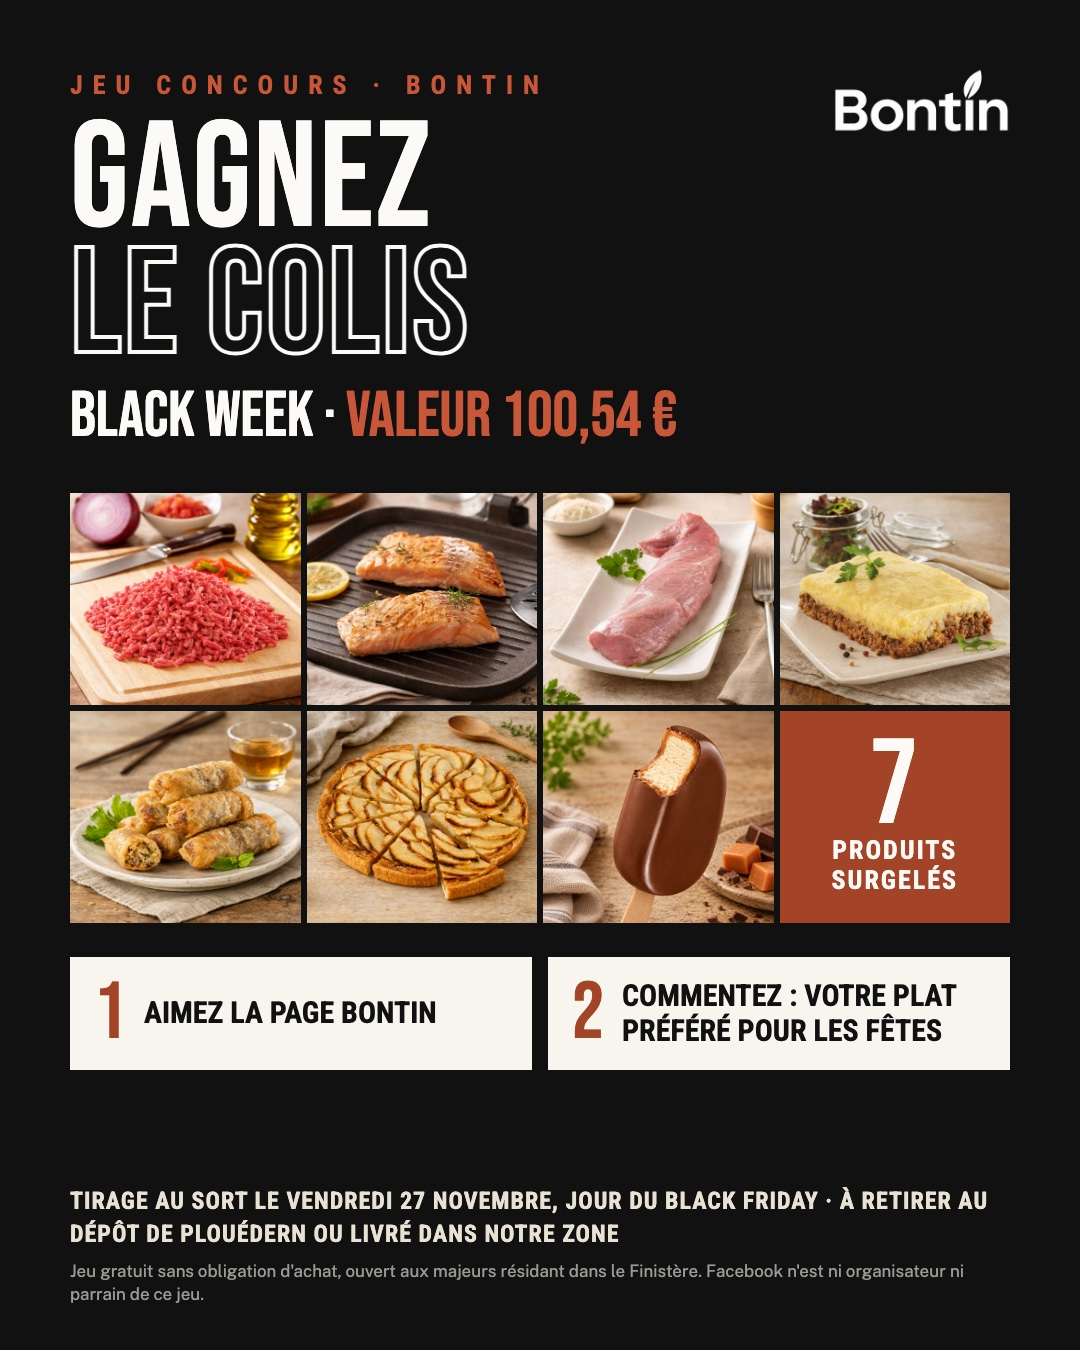
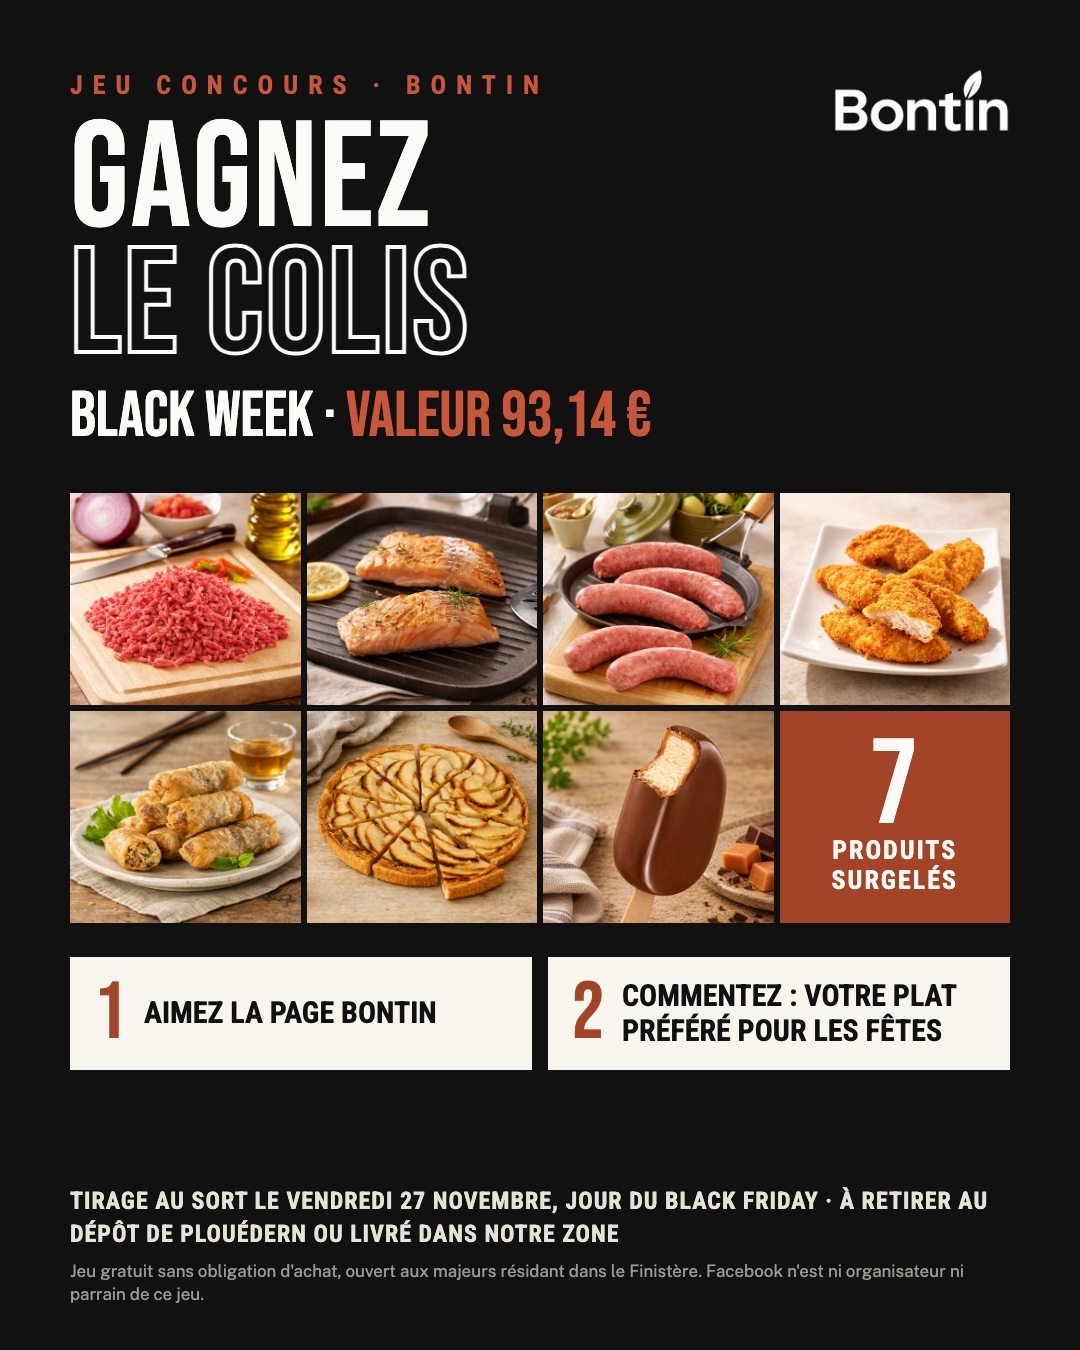
colis

Changed region(s): [[0.4583, 0.28, 0.9472, 0.5289]]

diff --git a/docs/black-week/kit-facebook.html b/docs/black-week/kit-facebook.html
@@ -66,11 +66,11 @@ code{background:#fff;border:1px solid var(--ligne);padding:1px 5px;font-size:14p
   <div><b>20 → 26 nov.</b>Jeu concours sur Facebook, tirage le vendredi 27 (Black Friday)</div>
   <div><b>23 → 29 nov.</b>Black Week sur bontin.fr</div>
   <div><b>-25 % max.</b>Sur 7 produits, dont le prix choc : 6 coquilles Saint-Jacques à 18,99 €</div>
-  <div><b>69,90 €</b>Le colis Black Week (valeur 100,54 €, -30 %)</div>
+  <div><b>65,20 €</b>Le colis Black Week (valeur 93,14 €, -30 %)</div>
 </div>
 <div class="carte">
   <p style="margin:0"><b>Le message à répéter partout, toujours le même :</b><br>
-  « Black Week Bontin : jusqu'à -25 % sur une sélection de surgelés et le colis de 7 produits à 69,90 € au lieu de 100,54 € (-30 %). Du 23 au 29 novembre sur bontin.fr, en livraison ou en retrait à Plouédern. »</p>
+  « Black Week Bontin : jusqu'à -25 % sur une sélection de surgelés et le colis de 7 produits à 65,20 € au lieu de 93,14 € (-30 %). Du 23 au 29 novembre sur bontin.fr, en livraison ou en retrait à Plouédern. »</p>
 </div>
 
 <h2>1. Les produits choisis</h2>
@@ -88,18 +88,18 @@ code{background:#fff;border:1px solid var(--ligne);padding:1px 5px;font-size:14p
 </table>
 <p style="font-size:14px;color:var(--muted)">Les promos de novembre déjà en place (éclairs, chipolatas, corbeilles, galettes, dos de cabillaud, kebab, poulet noir) continuent jusqu'au 30/11 : elles apparaîtront aussi sur la page Promotions pendant la Black Week. Rien à changer.</p>
 
-<h3>Le colis Black Week : 100,54 € de produits pour 69,90 € (-30 %)</h3>
+<h3>Le colis Black Week : 93,14 € de produits pour 65,20 € (-30 %)</h3>
 <p>Un colis « semaine en famille », avec d'autres produits que le ticket pour que les deux offres se complètent. C'est aussi le lot du jeu concours.</p>
 <table>
   <tr><th>Contenu</th><th class="n">Prix normal (livraison)</th></tr>
   <tr><td>HACHE TRADITION EN GRAIN (1 kg)</td><td class="n">20,49 €</td></tr>
   <tr><td>PAVE DE SAUMON SANS PEAU (1 kg)</td><td class="n">26,90 €</td></tr>
-  <tr><td>FILET MIGNON (1 kg)</td><td class="n">14,59 €</td></tr>
-  <tr><td>HACHIS PARMENTIER BOEUF (2 × 500 g)</td><td class="n">16,09 €</td></tr>
+  <tr><td>SAUCISSES FUMES ARTSANALES (1 kg)</td><td class="n">10,79 €</td></tr>
+  <tr><td>AIGUILLETTES DE POULET PANE (1 kg)</td><td class="n">12,49 €</td></tr>
   <tr><td>28 NEMS AU POULET</td><td class="n">10,59 €</td></tr>
   <tr><td>TARTE AUX POMMES 8 PARTS PREDECOUPEES</td><td class="n">7,89 €</td></tr>
   <tr><td>4 BÂTONNETS DOUBLE CARAMEL</td><td class="n">3,99 €</td></tr>
-  <tr class="star"><td><b>Total</b></td><td class="n"><b>100,54 €</b> → <b>69,90 €</b></td></tr>
+  <tr class="star"><td><b>Total</b></td><td class="n"><b>93,14 €</b> → <b>65,20 €</b></td></tr>
 </table>
 
 <h2>2. Mise en place sur le site (avant le lundi 23)</h2>
@@ -115,18 +115,18 @@ code{background:#fff;border:1px solid var(--ligne);padding:1px 5px;font-size:14p
 <p>Le colis se vend comme n'importe quel produit : c'est un produit du catalogue dont le prix est celui du colis complet.</p>
 <ol>
   <li>Admin → onglet Produits → <b>« + Nouveau produit »</b>.</li>
-  <li>Désignation <code>COLIS BLACK WEEK (7 PRODUITS)</code>, catégorie Plats cuisinés, poids <code>7 produits</code>, prix livraison <code>100.54</code> → Créer. Un nouveau produit est toujours créé <b>masqué</b>.</li>
+  <li>Désignation <code>COLIS BLACK WEEK (7 PRODUITS)</code>, catégorie Plats cuisinés, poids <code>7 produits</code>, prix livraison <code>93.14</code> → Créer. Un nouveau produit est toujours créé <b>masqué</b>.</li>
   <li>Sur sa ligne : la photo <code>visuels/9-photo-colis-site.jpg</code> (déjà au format carré du site).</li>
-  <li>Bouton <b>Promo</b> de la ligne : prix <code>69.90</code>, du 23/11/2026 au 29/11/2026.</li>
+  <li>Bouton <b>Promo</b> de la ligne : prix <code>65.20</code>, du 23/11/2026 au 29/11/2026.</li>
   <li>Bouton <b>Fiche</b> : coller la description ci-dessous, enregistrer. Vérifier qu'il est disponible en livraison et en retrait.</li>
   <li><b>Lundi 23 à 8 h</b> : passer la ligne de « Masqué » à « Publié ». C'est la seule chose à faire à la main ce jour-là côté site.</li>
 </ol>
 <p>Pendant la semaine, le client l'ajoute au panier comme un autre produit. La commande arrive dans Admin → Commandes avec la ligne « COLIS BLACK WEEK (7 PRODUITS) » : on prépare les 7 produits dans un même sac. Plus de stock : cocher « rupture », il disparaît du ticket. Lundi 30 : le repasser en « Masqué ».</p>
-<div class="texte">Le colis de la Black Week : 7 produits surgelés pour toute la famille, 100,54 € de produits pour 69,90 €.
+<div class="texte">Le colis de la Black Week : 7 produits surgelés pour toute la famille, 93,14 € de produits pour 65,20 €.
 • Haché tradition en grain (1 kg)
 • Pavés de saumon sans peau (1 kg)
-• Filet mignon de porc (1 kg)
-• Hachis parmentier bœuf (2 × 500 g)
+• Saucisses fumées artisanales (1 kg)
+• Aiguillettes de poulet panées (1 kg)
 • 28 nems au poulet
 • Tarte aux pommes 8 parts
 • 4 bâtonnets glacés double caramel
@@ -141,7 +141,7 @@ Offre valable du 23 au 29 novembre 2026, dans la limite des stocks.</div>
 </ol>
 <h3>d) À décider</h3>
 <ul>
-  <li><b>Le code BIENVENUE10 (-10 %)</b> se cumule avec les prix Black Week. Le colis tomberait à 62,91 €. Si c'est trop juste pour vos marges, désactivez-le pendant la semaine (onglet Offres).</li>
+  <li><b>Le code BIENVENUE10 (-10 %)</b> se cumule avec les prix Black Week. Le colis tomberait à 58,68 €. Si c'est trop juste pour vos marges, désactivez-le pendant la semaine (onglet Offres).</li>
   <li><b>Les stocks</b> : faites le point avec Sylvie sur les quantités des 8 produits, surtout les Saint-Jacques. Si un produit est épuisé, cochez « rupture » : il disparaît tout seul du ticket.</li>
 </ul>
 
@@ -156,15 +156,15 @@ Offre valable du 23 au 29 novembre 2026, dans la limite des stocks.</div>
 7 jours de Black Week chez Bontin : des surgelés que vous connaissez bien à prix cassés, et un colis surprise à -30 %… On ne vous dit pas encore lesquels 🤫
 
 👉 Abonnez-vous à la page pour ne rien rater.
-🎁 Et dès demain midi : un jeu concours pour gagner notre colis Black Week de 100,54 € 👀</div>
+🎁 Et dès demain midi : un jeu concours pour gagner notre colis Black Week de 93,14 € 👀</div>
 </div></div>
 
 <div class="jour"><div class="d"><small>Vendredi</small><b>20</b><small>nov.</small></div><div class="c">
   <div class="titre">Lancement du jeu concours</div><div class="meta">12 h · visuel 1-concours · + 3 € par jour de publicité jusqu'au 26</div>
   <div class="vis"><a href="visuels/1-concours.jpg"><img src="visuels/1-concours.jpg" alt="">1-concours</a></div>
-  <div class="texte">🎁 JEU CONCOURS : gagnez le colis Black Week Bontin (valeur 100,54 €) !
+  <div class="texte">🎁 JEU CONCOURS : gagnez le colis Black Week Bontin (valeur 93,14 €) !
 
-Haché de bœuf, pavés de saumon, filet mignon, hachis parmentier, nems, tarte aux pommes et bâtonnets glacés : de quoi régaler toute la famille 😋
+Haché de bœuf, pavés de saumon, saucisses fumées, aiguillettes de poulet panées, nems, tarte aux pommes et bâtonnets glacés : de quoi régaler toute la famille 😋
 
 Pour tenter votre chance :
 1⃣ Aimez notre page Bontin
@@ -176,7 +176,7 @@ Tirage au sort le vendredi 27 novembre à 12 h, jour du Black Friday ! Colis à 
 
 Jeu gratuit sans obligation d'achat, réservé aux majeurs résidant dans le Finistère. Règlement en commentaire. Facebook n'est ni organisateur ni parrain de ce jeu.</div>
   <p style="margin:8px 0 2px;font-size:14px"><b>Juste après, en 1er commentaire sous la publication (le règlement) :</b></p>
-  <div class="texte">📋 Règlement : jeu gratuit sans obligation d'achat organisé par ELORN GEL (Bontin) du 20/11/2026 au 26/11/2026 à 23 h 59. Ouvert aux personnes majeures résidant dans le Finistère, une participation par personne (+ 1 chance avec un compte créé sur bontin.fr). Participation : un commentaire sous cette publication. Tirage au sort parmi les participants le 27/11/2026 ; le gagnant est annoncé en commentaire et contacté par message privé. Sans réponse sous 7 jours, un nouveau tirage est fait. Lot : un colis de 7 produits surgelés d'une valeur de 100,54 € TTC, à retirer au dépôt de Plouédern ou livré dans notre zone de livraison, ni échangeable ni remboursable. Les données des participants servent uniquement au jeu. Facebook n'est ni organisateur ni parrain de ce jeu.</div>
+  <div class="texte">📋 Règlement : jeu gratuit sans obligation d'achat organisé par ELORN GEL (Bontin) du 20/11/2026 au 26/11/2026 à 23 h 59. Ouvert aux personnes majeures résidant dans le Finistère, une participation par personne (+ 1 chance avec un compte créé sur bontin.fr). Participation : un commentaire sous cette publication. Tirage au sort parmi les participants le 27/11/2026 ; le gagnant est annoncé en commentaire et contacté par message privé. Sans réponse sous 7 jours, un nouveau tirage est fait. Lot : un colis de 7 produits surgelés d'une valeur de 93,14 € TTC, à retirer au dépôt de Plouédern ou livré dans notre zone de livraison, ni échangeable ni remboursable. Les données des participants servent uniquement au jeu. Facebook n'est ni organisateur ni parrain de ce jeu.</div>
   <div class="attention" style="margin-bottom:0">Ne demandez <b>pas</b> de « partager » ni d'« identifier des amis » pour participer : c'est interdit par les règles de Facebook, et la page peut être bloquée. Les gens identifieront leurs amis d'eux-mêmes.</div>
 </div></div>
 
@@ -211,7 +211,7 @@ Jusqu'au dimanche 29 novembre, voici votre ticket :
 🥘 Paella royale : 9,59 € (au lieu de 12,69 €)
 🍬 12 macarons : 7,89 € (au lieu de 10,45 €)
 
-📦 Et le COLIS BLACK WEEK : 7 produits pour 69,90 € au lieu de 100,54 €.
+📦 Et le COLIS BLACK WEEK : 7 produits pour 65,20 € au lieu de 93,14 €.
 
 👉 Commandez sur bontin.fr : livraison chez vous ou retrait au dépôt de Plouédern.
 Dans la limite des stocks.
@@ -224,9 +224,9 @@ Dans la limite des stocks.
   <div class="titre">Le colis</div><div class="meta">12 h · visuel 5-colis</div>
   <div class="vis"><a href="visuels/5-colis.jpg"><img src="visuels/5-colis.jpg" alt="">5-colis</a></div>
   <div class="texte">📦 Le colis Black Week, c'est une semaine de repas réglée :
-haché de bœuf, pavés de saumon, filet mignon, hachis parmentier, 28 nems, une tarte aux pommes et des bâtonnets glacés pour le dessert.
+haché de bœuf, pavés de saumon, saucisses fumées, aiguillettes de poulet panées, 28 nems, une tarte aux pommes et des bâtonnets glacés pour le dessert.
 
-100,54 € de produits ➡ 69,90 € seulement, soit 30,64 € d'économie.
+93,14 € de produits ➡ 65,20 € seulement, soit 27,94 € d'économie.
 
 Jusqu'à dimanche sur bontin.fr, en livraison ou en retrait à Plouédern. Quantités limitées !</div>
 </div></div>
@@ -257,13 +257,13 @@ Il vous reste jusqu'à dimanche pour profiter des prix : bontin.fr
 
 Chez Bontin, les prix cassés continuent jusqu'à dimanche :
 🔥 jusqu'à -25 % sur une sélection de surgelés
-📦 le colis de 7 produits à 69,90 € au lieu de 100,54 € (-30 %)
+📦 le colis de 7 produits à 65,20 € au lieu de 93,14 € (-30 %)
 
 👉 bontin.fr, livraison ou retrait à Plouédern.</div>
   <p style="margin:8px 0 2px;font-size:14px"><b>À 12 h, en commentaire sous le concours, puis en publication :</b></p>
   <div class="texte">🎉 Et le gagnant du colis Black Week est… [Prénom N.] ! Bravo 👏 Nous vous contactons par message privé.
 
-Merci à tous pour votre participation ! Pas gagné ? Le même colis est en vente jusqu'à dimanche à 69,90 € au lieu de 100,54 € sur bontin.fr 😉</div>
+Merci à tous pour votre participation ! Pas gagné ? Le même colis est en vente jusqu'à dimanche à 65,20 € au lieu de 93,14 € sur bontin.fr 😉</div>
   <p style="font-size:13px;color:var(--muted);margin:6px 0 0">Tirage : listez les participants (un nom par ligne, deux fois pour ceux qui ont créé leur compte) et tirez au hasard, par exemple sur le site <i>random.org</i> (« Lists »). Faites une capture d'écran du tirage.</p>
 </div></div>
 
@@ -271,7 +271,7 @@ Merci à tous pour votre participation ! Pas gagné ? Le même colis est en vent
   <div class="titre">Plus que 2 jours</div><div class="meta">11 h 30 · visuel 5-colis ou 3-lancement</div>
   <div class="texte">⏳ Plus que 2 jours pour la Black Week Bontin !
 
-Faites le plein : Saint-Jacques, apéritif, viandes et desserts jusqu'à -25 %, et le colis à 69,90 € (-30 %).
+Faites le plein : Saint-Jacques, apéritif, viandes et desserts jusqu'à -25 %, et le colis à 65,20 € (-30 %).
 
 👉 bontin.fr</div>
 </div></div>
@@ -282,7 +282,7 @@ Faites le plein : Saint-Jacques, apéritif, viandes et desserts jusqu'à -25 %, 
   <div class="texte">🚨 DERNIER JOUR 🚨
 
 Ce soir à minuit, les prix de la Black Week remontent.
-Jusqu'à -25 % et le colis à 69,90 € au lieu de 100,54 € : c'est maintenant.
+Jusqu'à -25 % et le colis à 65,20 € au lieu de 93,14 € : c'est maintenant.
 
 👉 bontin.fr</div>
 </div></div>
@@ -320,7 +320,7 @@ Prochain rendez-vous : les fêtes de fin d'année 🎄 Restez abonnés, on vous 
 </ul>
 <div class="texte">Bonjour à tous 👋
 Petit commerce du coin : Bontin, ce sont des surgelés livrés autour de Landerneau ou à retirer au dépôt de Plouédern.
-Cette semaine, c'est notre Black Week : 6 coquilles Saint-Jacques à 18,99 € au lieu de 25,19 €, jusqu'à -25 % sur une sélection, et un colis de 7 produits à 69,90 € au lieu de 100,54 €.
+Cette semaine, c'est notre Black Week : 6 coquilles Saint-Jacques à 18,99 € au lieu de 25,19 €, jusqu'à -25 % sur une sélection, et un colis de 7 produits à 65,20 € au lieu de 93,14 €.
 Tout est sur bontin.fr. Merci aux admins d'accepter le message 🙏</div>
 
 <h2>6. Réponses toutes prêtes aux commentaires</h2>
